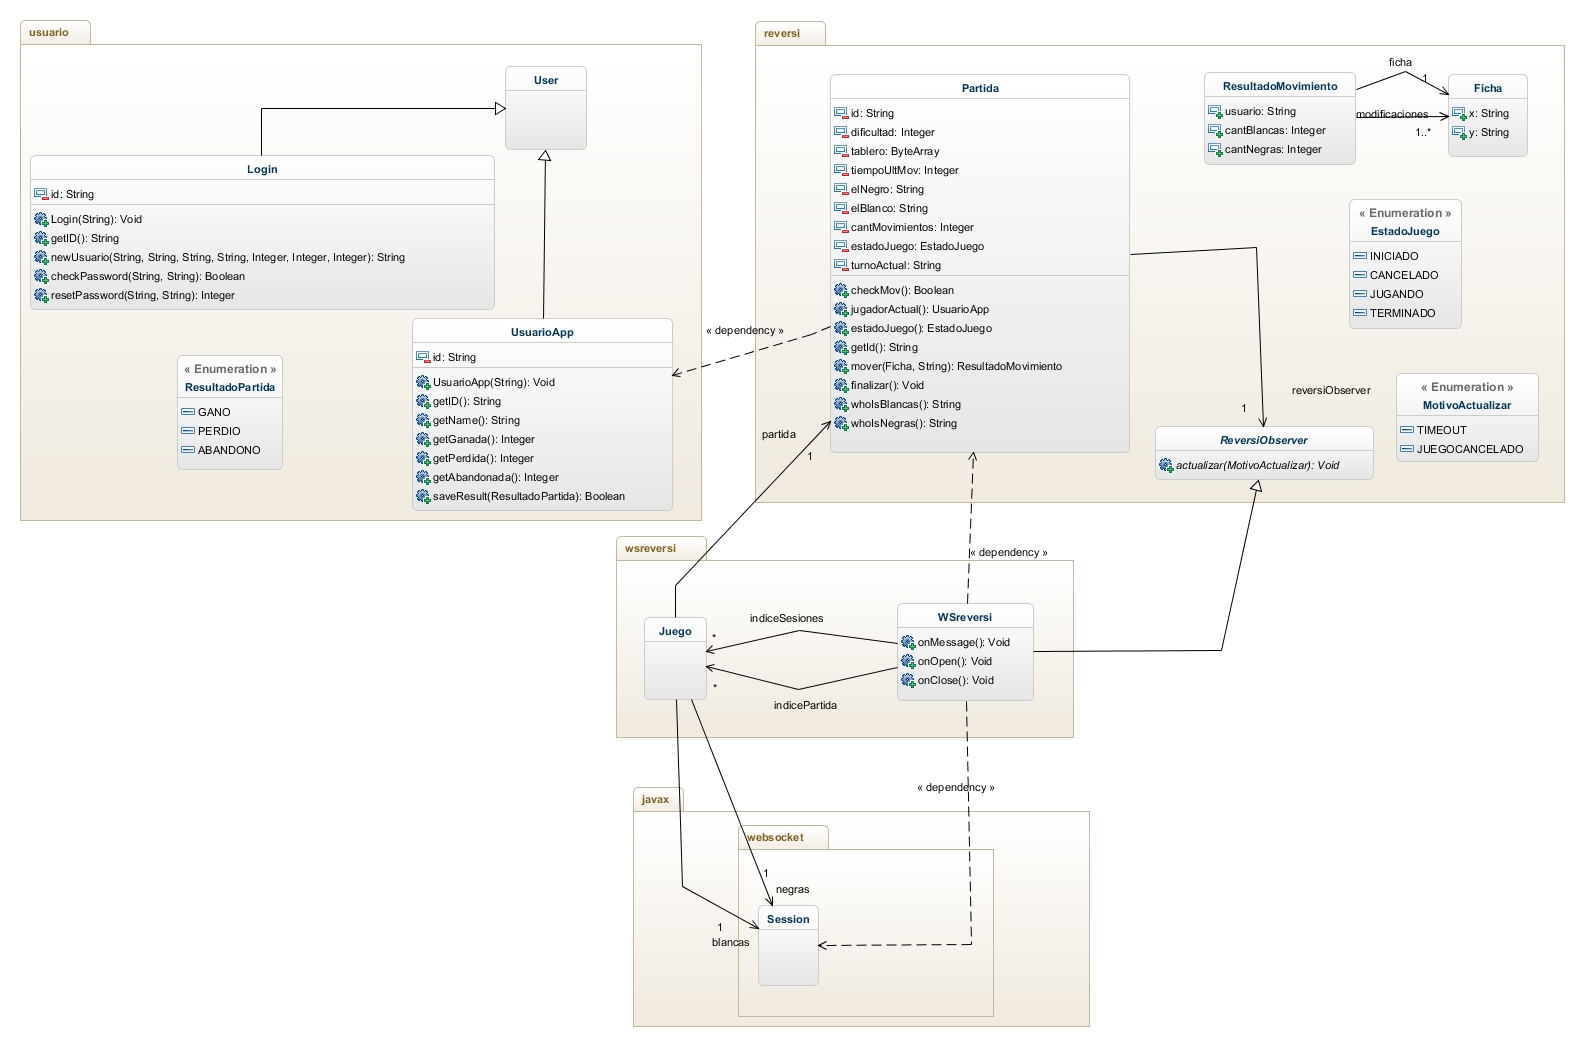
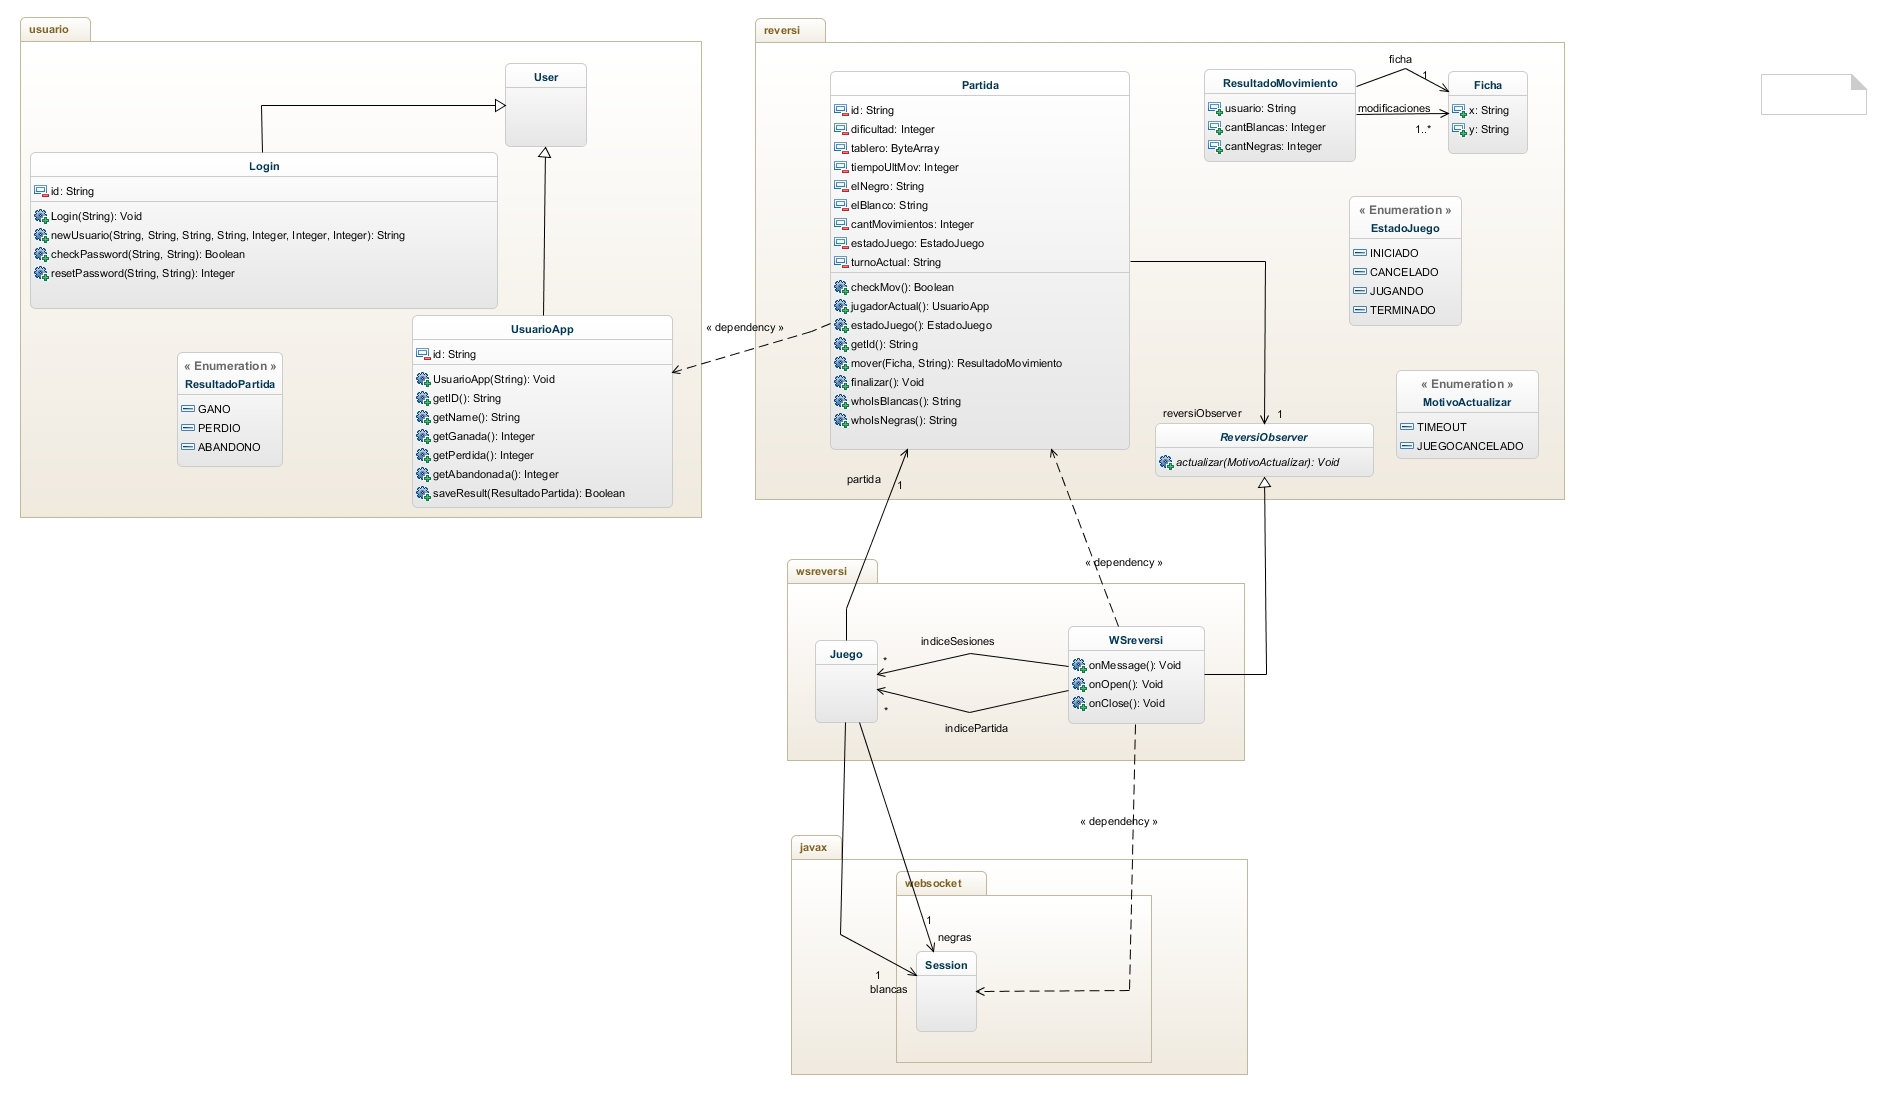
Se testearon las funciones de la clase Login y la clase UsuarioApp. Ademas se modifico el Diagrama de Clases

diff --git a/src/src/main/java/com/usuario/Login.java b/src/src/main/java/com/usuario/Login.java
@@ -7,37 +7,10 @@ import org.apache.commons.codec.digest.DigestUtils;
 public class Login extends Users
 {
 
-	
-	private String id;
-
-	public Login(String id) {
+	public Login() {
 		
-		connect();
-		
-		User login = new User();
-		
-		try{
-			login = login.findById(id);
-		}catch(Exception e){
-			throw new IllegalArgumentException("Ingreso un ID de USUARIO invalido.");
-		}
-		
-		this.id = id;
-    }  
-	
-	
-	public String getID() {
-		// Retorna el ID del Usuario
-        
-		User login = new User();	
-		login = login.findById(id);
-		
-		if (login == null){
-			throw new IllegalArgumentException("Ingreso un ID de USUARIO invalido.");
-		}else 
-		    return login.getString("id");
-	}  	
-		
+    }  	
+			
 	
 	public String newUsuario(String id, String password, String name, String email, int won, int lost, int abandoned) {
 		// Agrega un nuevo Usuario
@@ -72,10 +45,6 @@ public class Login extends Users
 			return false;		
 		
 		} else { 
-			
-			//String pass_usu = login.getString("password");
-		
-		    //String pass_ing = DigestUtils.md5Hex(password);
 		
 			if (login.getString("password").equals(DigestUtils.md5Hex(password))) {
         		
@@ -90,7 +59,6 @@ public class Login extends Users
 			}
 		}  
 	}
-
 	
 	
 	public int resetPassword(String usuario, String email) {

diff --git a/src/src/main/java/com/reversi/Partida.java b/src/src/main/java/com/reversi/Partida.java
@@ -18,8 +18,6 @@ import com.usuario.models.User;
 
 import java.lang.String;
 
-import com.reversi.models.PartidaModel;
-
 import java.util.*;
 
 import java.io.*;
@@ -30,7 +28,7 @@ import java.sql.Timestamp;
 
 import java.text.SimpleDateFormat;
 
-public class Partida {
+public class Partida { 
 	
 	private String id;
 	
@@ -171,6 +169,7 @@ public class Partida {
 	public int getCantNegras() {
 		return 0;
 		}
+	
 	
 
 }	

diff --git a/src/src/test/java/com/usuario/GeneralTest.java b/src/src/test/java/com/usuario/GeneralTest.java
@@ -93,14 +93,7 @@ public class GeneralTest {
 		System.out.println("\n\nTEST Login\n\n");
 		
 		//Usuario Login valido
-	    Login login = new Login("nico");		
-		 
-        //getID
-		try{
-			System.out.println("El ID del Usuario Login es: "+login.getID());        
-		}catch(Exception e){
-			System.out.println("getID invalido");
-		} 			
+	    Login login = new Login();					
 
 		//newUsuario
 		try{
